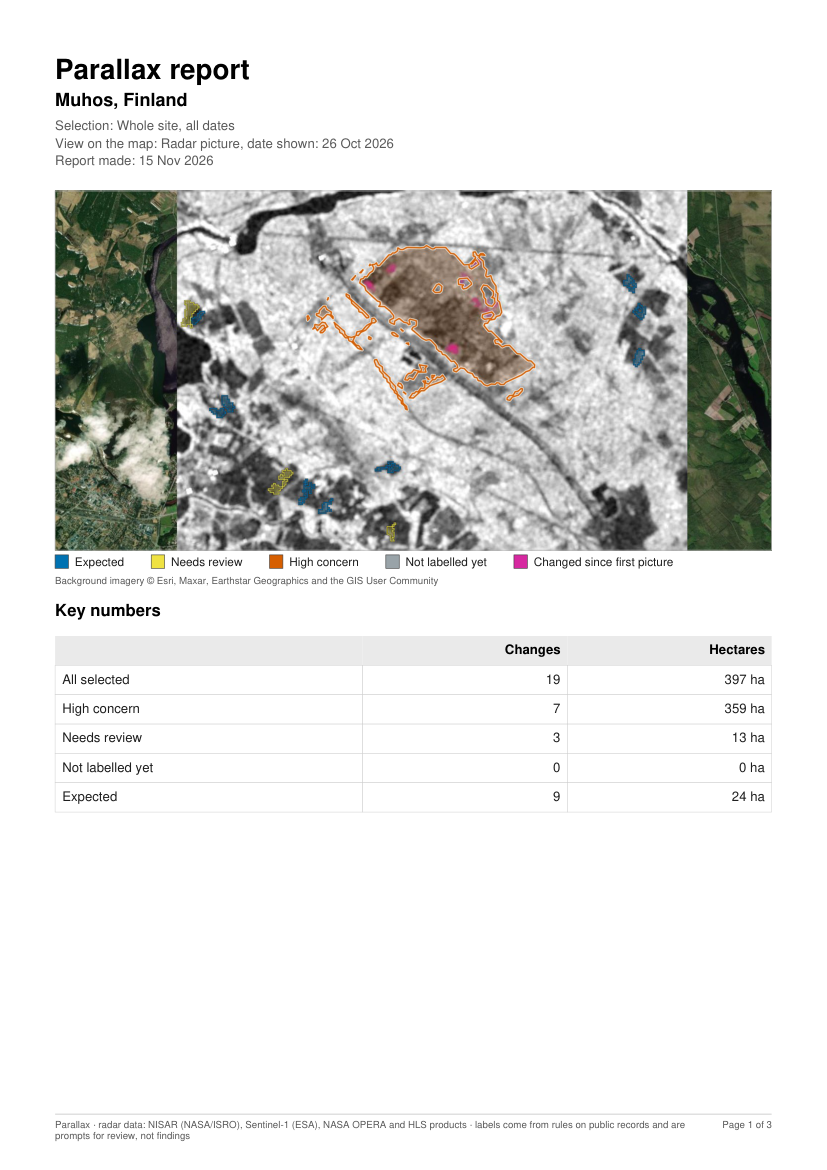
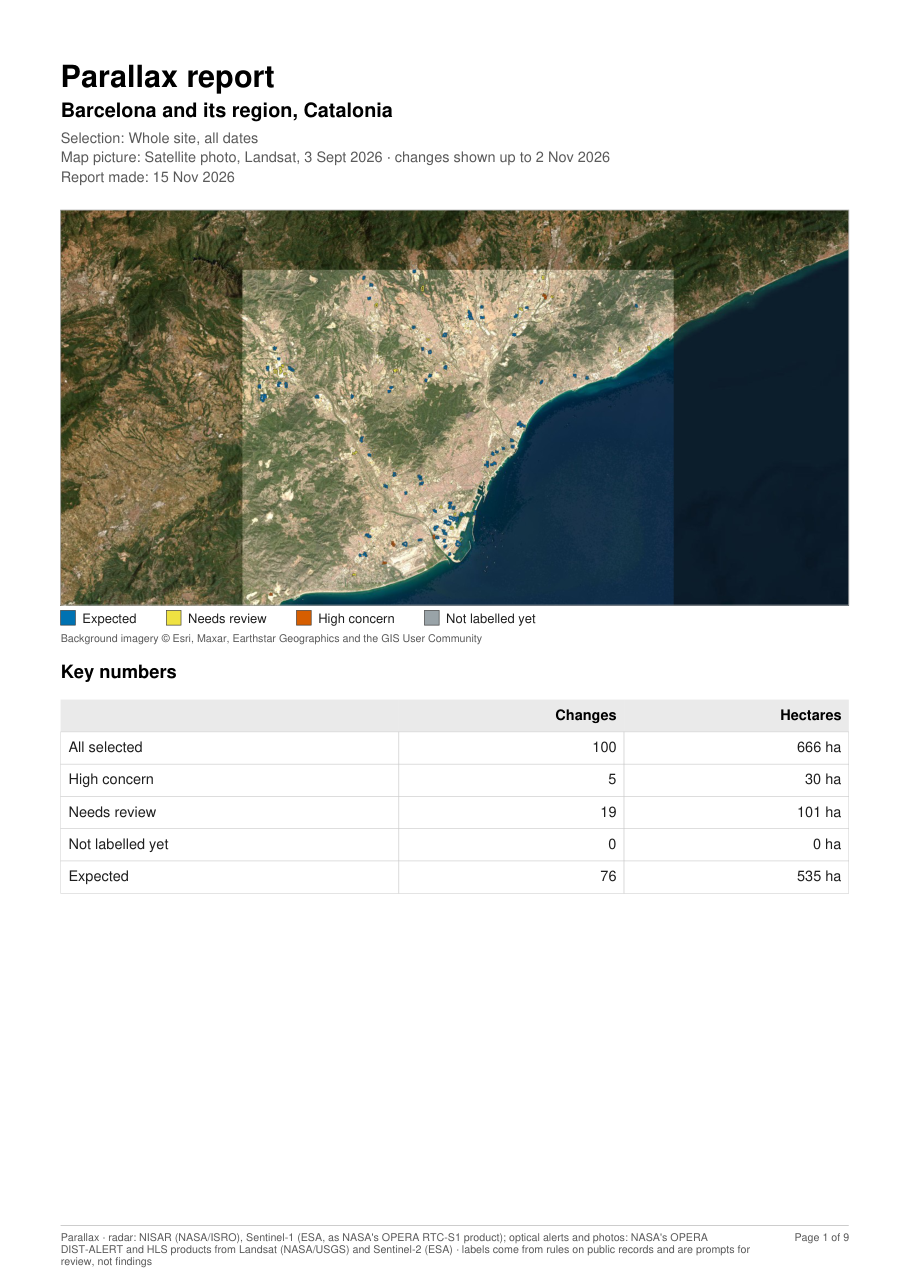
Report: real map picture date and satellite, correct credits, area box; summary wording; pages: high concern rules and Map link

diff --git a/app/js/report.js b/app/js/report.js
@@ -4,13 +4,13 @@
 // Rules and wording: kb/report.md. jsPDF is loaded from a CDN only when a report is made.
 import { VERDICTS, verdictKey, formatArea, formatDate, safeUrl } from "./format.js";
 import { registerExportFormat, downloadBlob } from "./export.js";
-import { describeSelection } from "./selection.js";
+import { describeSelection, getSelection } from "./selection.js";
 import { whenText } from "./seen.js";
 import { REPORT_API, REPORT_TIMEOUT_MS } from "./config.js";
 
 const JSPDF = "https://cdnjs.cloudflare.com/ajax/libs/jspdf/2.5.1/jspdf.umd.min.js";
 const AUTOTABLE = "https://cdnjs.cloudflare.com/ajax/libs/jspdf-autotable/3.8.2/jspdf.plugin.autotable.min.js";
-const FOOTER = "Parallax · radar data: NISAR (NASA/ISRO), Sentinel-1 (ESA), NASA OPERA and HLS products · labels come from rules on public records and are prompts for review, not findings";
+const FOOTER = "Parallax · radar: NISAR (NASA/ISRO), Sentinel-1 (ESA, as NASA's OPERA RTC-S1 product); optical alerts and photos: NASA's OPERA DIST-ALERT and HLS products from Landsat (NASA/USGS) and Sentinel-2 (ESA) · labels come from rules on public records and are prompts for review, not findings";
 const ORDER = ["high_concern", "review", "none", "expected"]; // the priority order of labels
 const BAD_WORDS = /illegal|unlawful/i;
 
@@ -174,12 +174,30 @@ function toJpeg(dataUrl) {
 }
 
 const $ = (id) => document.getElementById(id);
+
+/** " (west, south to east, north: 26.06, 64.80 to 26.15, 64.85)" so the report can be reproduced; "" without an area. */
+function areaBox() {
+  const pts = [];
+  const walk = (c) => (typeof c[0] === "number" ? pts.push(c) : c.forEach(walk));
+  const g = getSelection().area;
+  if (!g?.coordinates) return "";
+  walk(g.coordinates);
+  if (!pts.length) return "";
+  const xs = pts.map((p) => p[0]);
+  const ys = pts.map((p) => p[1]);
+  const f = (n) => n.toFixed(2);
+  return ` (west, south to east, north: ${f(Math.min(...xs))}, ${f(Math.min(...ys))} to ${f(Math.max(...xs))}, ${f(Math.max(...ys))})`;
+}
 const isRadar = () => $("view-radar")?.getAttribute("aria-checked") === "true";
 
-/** What the map shows now: picture type and date, read from the page. */
+/** What the map shows now, read from the page: the picture's own satellite and date (the label under the view switch)
+ *  and the slider date, which is the date up to which changes are shown. */
 function viewText() {
+  const kind = isRadar() ? "Radar" : "Satellite photo";
+  const frame = $("frame-label")?.textContent.replace(/\s*·\s*/g, ", ").trim(); // "Landsat · 3 Sept 2026" -> "Landsat, 3 Sept 2026"
   const date = $("date-label")?.textContent.split("·")[0].trim(); // "26 Oct 2026 · image 68 of 68" -> the date
-  return `${isRadar() ? "Radar" : "Satellite"} picture${date ? `, date shown: ${date}` : ""}`;
+  const picture = !frame || /^No /i.test(frame) ? `${kind}, no picture for this date` : `${kind}, ${frame}`;
+  return `${picture}${date ? ` · changes shown up to ${date}` : ""}`;
 }
 
 function attributionText() {
@@ -217,7 +235,7 @@ export async function buildReport(ctx, aiText, picture) {
   text("Parallax report", M, y + 6); y += 13;
   doc.setFontSize(13); text(ctx.site.name, M, y); y += 6;
   doc.setFont("helvetica", "normal").setFontSize(9.5).setTextColor(...GREY);
-  for (const l of [`Selection: ${describeSelection() || "Whole site, all dates"}`, `View on the map: ${viewText()}`, `Report made: ${formatDate(new Date().toISOString().slice(0, 10))}`]) { text(l, M, y); y += 4.5; }
+  for (const l of [`Selection: ${(describeSelection() || "Whole site, all dates").replace("area", `area${areaBox()}`)}`, `Map picture: ${viewText()}`, `Report made: ${formatDate(new Date().toISOString().slice(0, 10))}`]) { text(l, M, y); y += 4.5; }
   y += 2;
 
   // map picture, legend, attribution

diff --git a/app/how-it-works.html b/app/how-it-works.html
@@ -113,7 +113,7 @@
       <ul class="labels">
         <li><span class="swatch" style="background:var(--c-expected)"></span><div><b>Expected:</b> a record explains the change, for example a registered building, land planned for development, land set aside for a port or airport, a listed solar plant, or a recorded wildfire.</div></li>
         <li><span class="swatch" style="background:var(--c-review)"></span><div><b>Needs review:</b> no record we could check explains it, or the land is not zoned for building, or an official step is on record.</div></li>
-        <li><span class="swatch" style="background:var(--c-high_concern)"></span><div><b>High concern:</b> the change is inside a protected area, or it is large and on land where building is not allowed with nothing to explain it.</div></li>
+        <li><span class="swatch" style="background:var(--c-high_concern)"></span><div><b>High concern:</b> the change is inside a protected area, or it is large and on land where building is not allowed with nothing to explain it, or an official record shows that a required assessment or permit was not finished when the work happened.</div></li>
         <li><span class="swatch" style="background:var(--c-none)"></span><div><b>Not labelled yet:</b> the change has not been checked against records.</div></li>
       </ul>
       <p>Very small changes with low confidence are not flagged on size alone. Records that could not be reached are listed as such, and the label then rests on size. A label is a prompt for a person to look, not a finding of wrongdoing.</p>
@@ -174,5 +174,12 @@
       </ul>
     </section>
   </main>
+  <script>
+    // "Map" brings the user back to the site, filter and base map they left (saved by the app in main.js).
+    try {
+      const h = sessionStorage.getItem("parallax-hash");
+      if (h && /^#[\w=&.,%:-]*$/.test(h)) for (const a of document.querySelectorAll('a[href="./"]')) a.href = "./" + h;
+    } catch {}
+  </script>
 </body>
 </html>

diff --git a/app/faq.html b/app/faq.html
@@ -38,7 +38,7 @@
 
     <details>
       <summary>What do the colours mean?</summary>
-      <p>Blue is <b>Expected</b>: a public record explains the change. Yellow is <b>Needs review</b>: nothing we could check explains it. Orange is <b>High concern</b>: it is inside a protected area, or it is large and on land where building is not allowed with nothing to explain it. Grey means not labelled yet. The label is also written as a word on every card.</p>
+      <p>Blue is <b>Expected</b>: a public record explains the change. Yellow is <b>Needs review</b>: nothing we could check explains it. Orange is <b>High concern</b>: it is inside a protected area, or it is large and on land where building is not allowed with nothing to explain it, or an official record shows that a required assessment or permit was not finished when the work happened. Grey means not labelled yet. The label is also written as a word on every card.</p>
     </details>
 
     <details>
@@ -91,5 +91,12 @@
       <p>Open the change and read "Why this label?": every reason names its source and links to it. The card also shows the before and after pictures and the radar signal over time, so you can compare them with what you know of the place.</p>
     </details>
   </main>
+  <script>
+    // "Map" brings the user back to the site, filter and base map they left (saved by the app in main.js).
+    try {
+      const h = sessionStorage.getItem("parallax-hash");
+      if (h && /^#[\w=&.,%:-]*$/.test(h)) for (const a of document.querySelectorAll('a[href="./"]')) a.href = "./" + h;
+    } catch {}
+  </script>
 </body>
 </html>

diff --git a/worker/src/index.js b/worker/src/index.js
@@ -99,7 +99,7 @@ function plainLabels(f) {
 function buildPrompt(rawFacts) {
   const facts = plainLabels(rawFacts);
   return [
-    "You write a short summary of land-surface changes detected by radar satellites, for a manager at a public authority who is not a specialist.",
+    "You write a short summary of land-surface changes seen in satellite data, for a manager at a public authority who is not a specialist.",
     "",
     "Rules:",
     "- Write at most 180 words of plain English, as 2 short paragraphs.",
@@ -108,6 +108,7 @@ function buildPrompt(rawFacts) {
     "- Say what was detected, where and when, how much (hectares), and which changes to look at first.",
     "- Use the label names exactly as written in the facts (high concern, needs review, expected, not labelled yet), never codes with underscores.",
     "- A label (expected, needs review, high concern) is a prompt for a person to check. It is never a finding of wrongdoing.",
+    '- Say "satellite data show" (or similar). Never say which kind of satellite or sensor (radar, optical) was used, because the facts do not say.',
     "- Do not guess who did it or why. Do not name companies or people.",
     '- Never use the words "illegal" or "unlawful".',
     "- No headings, no lists, no markdown.",

diff --git a/app/js/main.js b/app/js/main.js
@@ -97,6 +97,7 @@ async function main() {
       aoi.toParams(params);
       try {
         history.replaceState(null, "", `${location.pathname}${location.search}#${params.toString().replaceAll("%2C", ",")}`); // commas stay readable in bbox=w,s,e,n
+        sessionStorage.setItem("parallax-hash", location.hash); // the How it works and FAQ pages bring the user back here
       } catch {} // Safari refuses more than ~100 calls in 30 s: the link just stays at its last state
     }, 250);
   }
@@ -245,6 +246,7 @@ async function main() {
     $("site").value = "";
     $("fake-badge").hidden = true;
     history.replaceState(null, "", location.pathname + location.search);
+    try { sessionStorage.removeItem("parallax-hash"); } catch {}
     drawer.close();
     clearSelection();
     timeFrame.setSite(null);
@@ -273,6 +275,7 @@ async function main() {
     $("export-btn").hidden = false;
     drawer.close();
     history.replaceState(null, "", `#site=${site.id}`);
+    try { sessionStorage.setItem("parallax-hash", location.hash); } catch {}
     clearTimeout(hashTimer); // a pending write still describes the old site: drop it, and write nothing while this one loads
     selectedId = null;
     lastDate = null;

diff --git a/app/js/aoi.js b/app/js/aoi.js
@@ -177,6 +177,7 @@ export function createAoi(mount, { map, getSite, hideDrawer, showDrawer, room })
     setArea(geometry);
     showStatus();
     const box = geometryBox(geometry);
+    if (box) bboxInput.value = box.map((n) => Number(n.toFixed(5))).join(", "); // the open form shows the area now chosen
     const outside = outsideNote(box);
     say(outside ?? note, outside ? "error" : "info");
     if (zoom) zoomTo(box);
